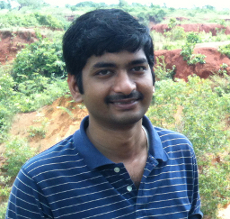
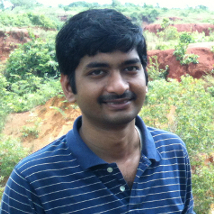
Changed image to circular with CSS

diff --git a/index.html b/index.html
@@ -70,19 +70,17 @@
     <div class="container">
 		<div class="row">
 			<div class="col-md-8">
+               <img align="left" alt="Barun Saha" 
+                    style="padding-right: 8px;" class="circle"
+                    src="images/self/barun_saha_thumbnail.jpg">
+                
 				<p>
-					I am Barun Saha. I 
+					Hi! I am Barun Saha. I 
                     <span class="glyphicon glyphicon-heart heart-beat" style="color: #E41B17;"></span>
 					to build things.
 				</p>
 
 				<p>
-                    <a href="images/self/barun_saha.jpg">
-					   <img align="left" alt="Barun Saha" 
-                            style="padding-right: 8px;"
-                            src="images/self/barun_saha_thumbnail.jpg">
-                    </a>
-                    
 					I hold an MS (by research) degree from Indian Institute of
 					Technology Kharagpur, India.
 					Prior to that, I have worked at Wipro Technologies

diff --git a/templates/index.html b/templates/index.html
@@ -5,19 +5,17 @@
     <div class="container">
 		<div class="row">
 			<div class="col-md-8">
+               <img align="left" alt="Barun Saha" 
+                    style="padding-right: 8px;" class="circle"
+                    src="images/self/barun_saha_thumbnail.jpg">
+                
 				<p>
-					I am Barun Saha. I 
+					Hi! I am Barun Saha. I 
                     <span class="glyphicon glyphicon-heart heart-beat" style="color: #E41B17;"></span>
 					to build things.
 				</p>
 
 				<p>
-                    <a href="images/self/barun_saha.jpg">
-					   <img align="left" alt="Barun Saha" 
-                            style="padding-right: 8px;"
-                            src="images/self/barun_saha_thumbnail.jpg">
-                    </a>
-                    
 					I hold an MS (by research) degree from Indian Institute of
 					Technology Kharagpur, India.
 					Prior to that, I have worked at Wipro Technologies

diff --git a/assets/css/custom.css b/assets/css/custom.css
@@ -364,3 +364,9 @@ nav.navbar {
 .panel-footer {
     padding: 4px;
 }
+
+.circle {
+    border-radius: 50%;
+    -moz-border-radius: 50%;
+    -webkit-border-radius: 50%;
+}
